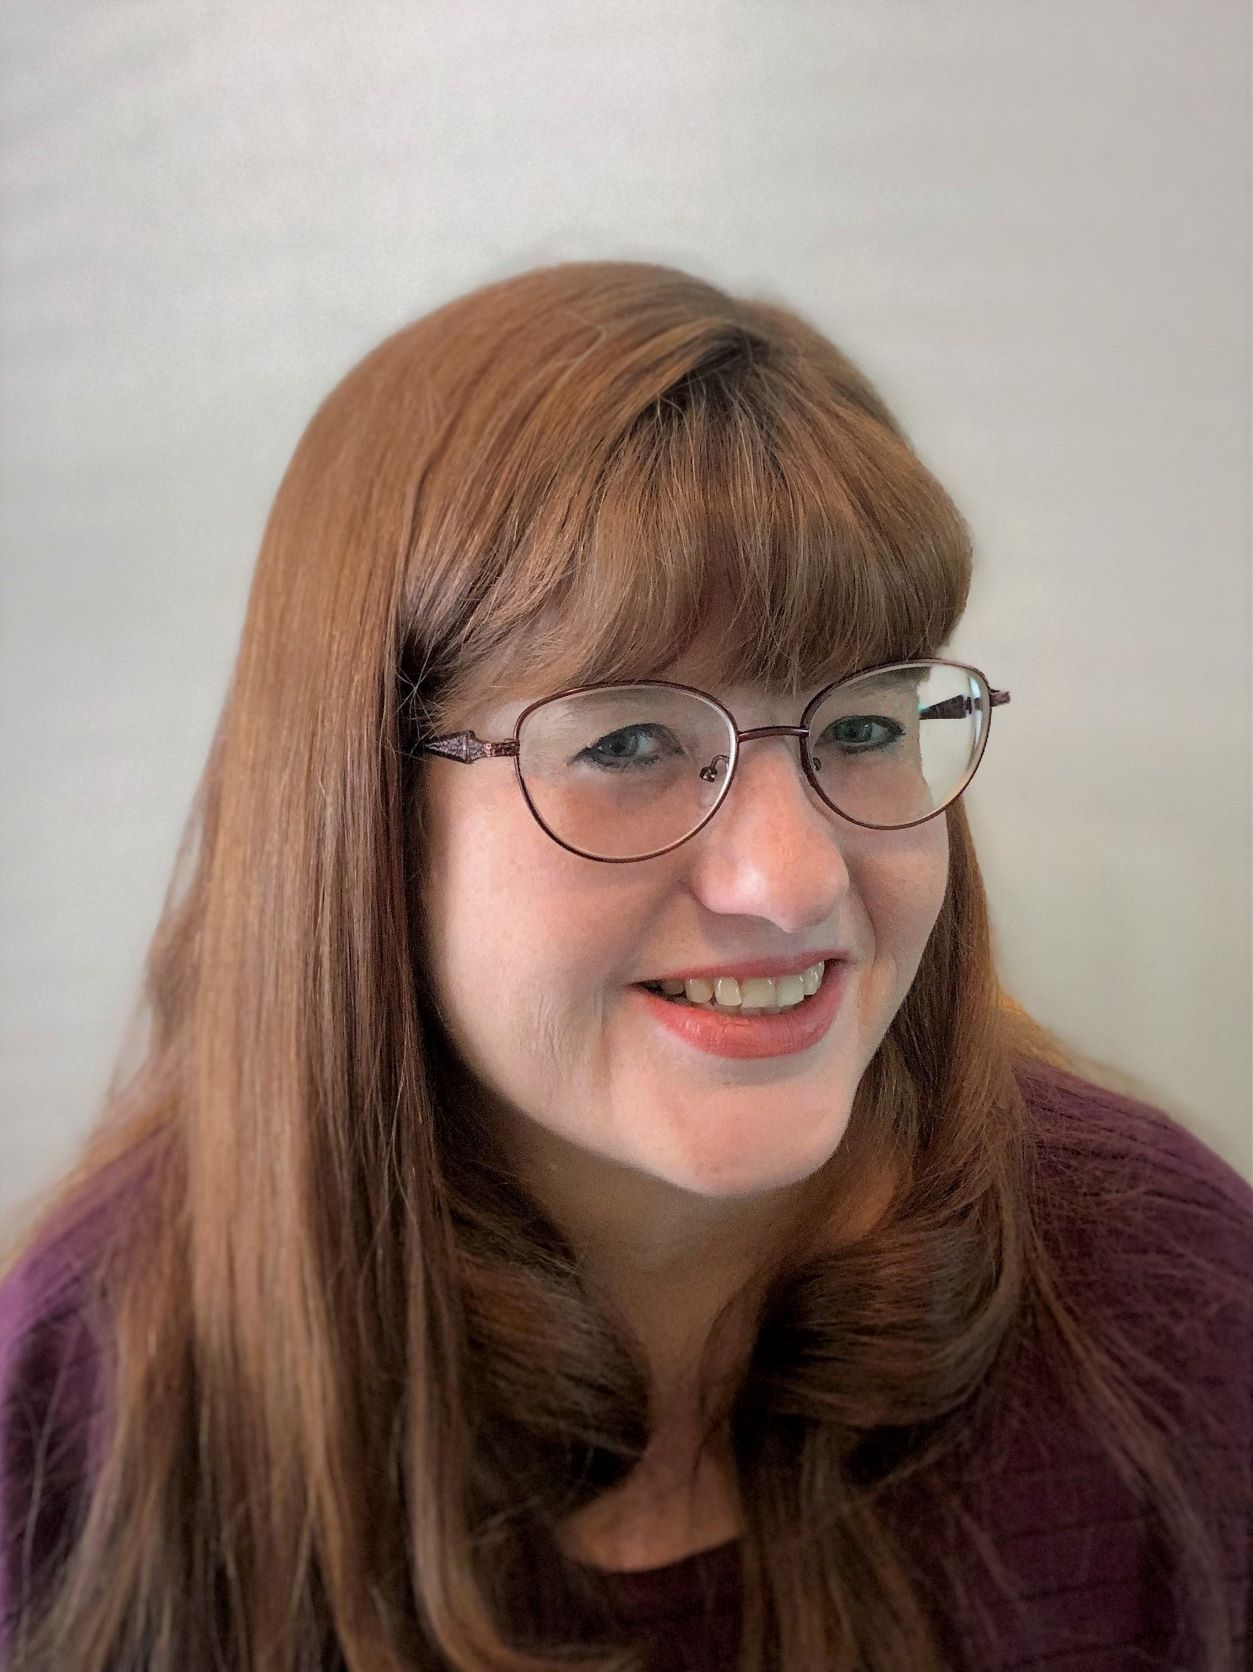
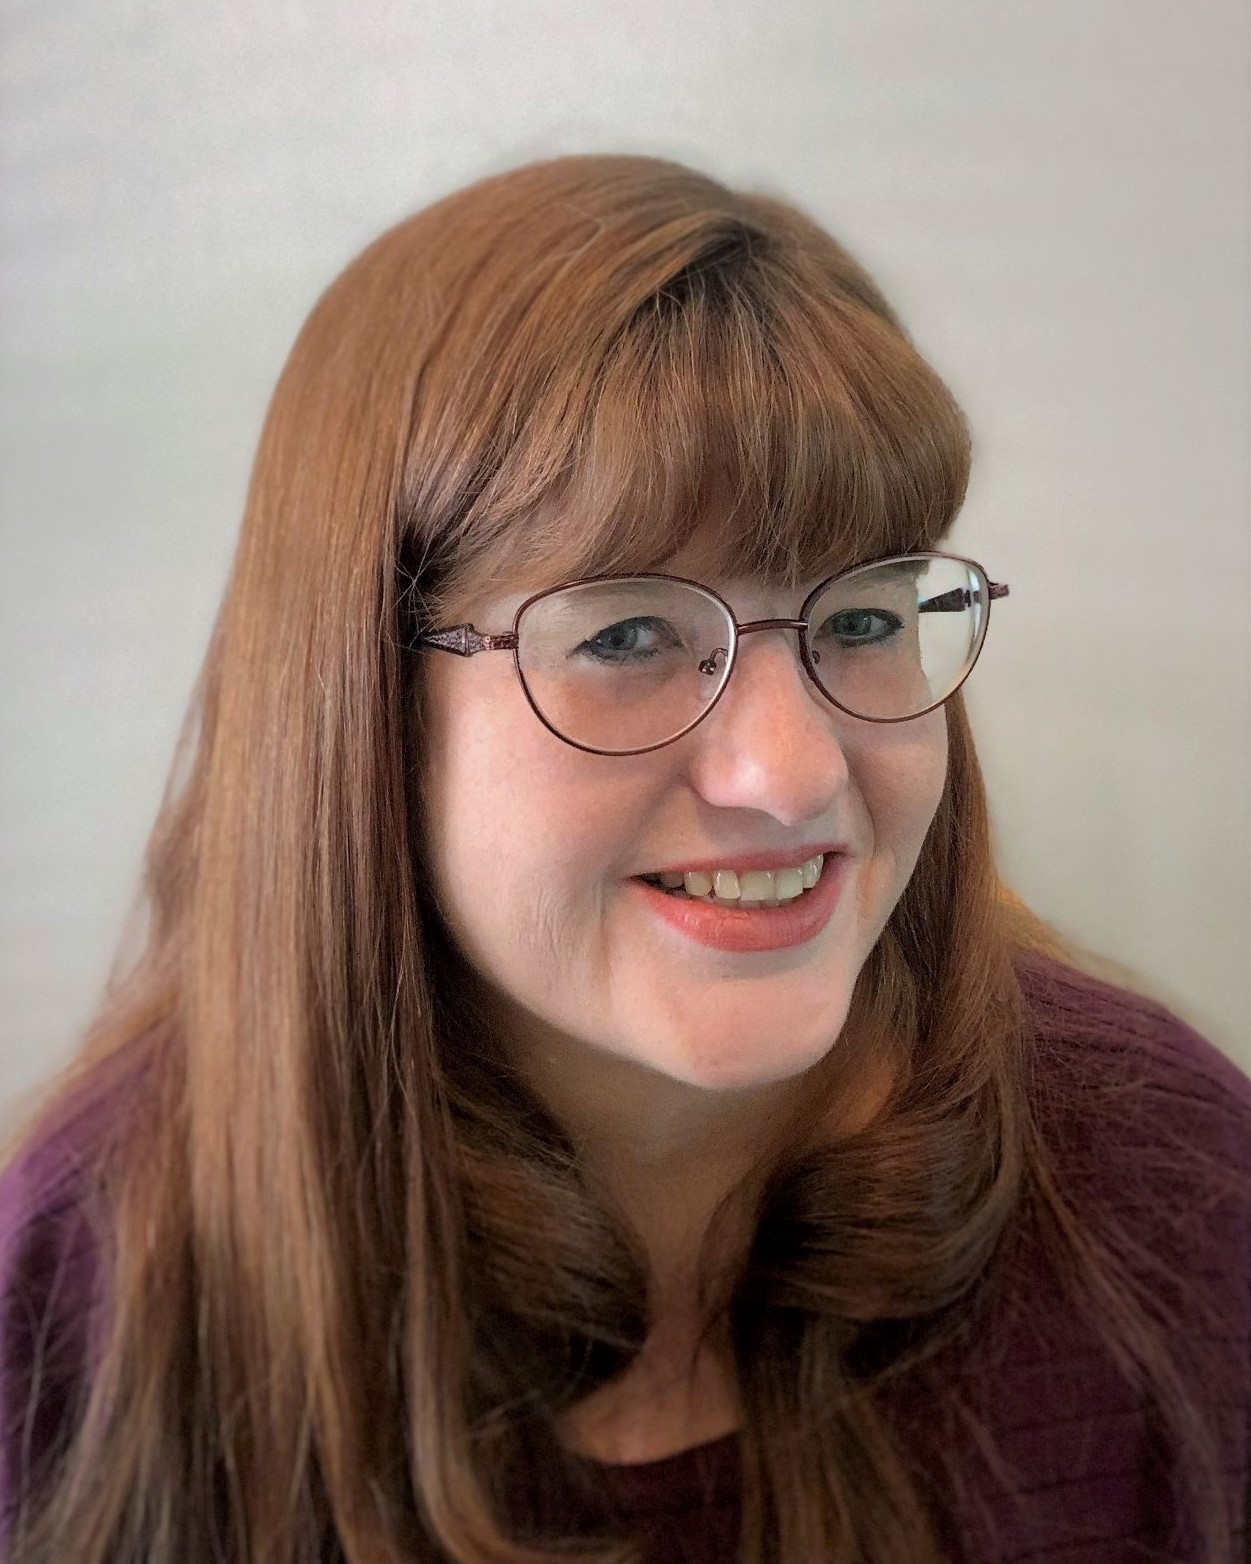
about me

diff --git a/styles/style.css b/styles/style.css
@@ -12,7 +12,7 @@ body {
    right: 0px;
    bottom: 0px;
    left: 0px;
-   opacity: 0.75;
+   opacity: 0.50;
  }
 
 header {
@@ -30,20 +30,37 @@ footer .row {
 h1 {
   font-weight: 700;
   margin: 0;
+  position: relative;
 }
 
 h2 {
   padding: 10px;
+  position: relative;
+}
+
+h4 {
+  padding-bottom: 10px;
+  font-weight: bold;
+  font-size: 1.5em;
+  position: relative;
+}
+
+h5 {
+  padding-bottom: 10px;
+  font-size: 1.2 em;
+  position: relative;
 }
 
 nav {
   display: flex;
   justify-content: flex-end;
+  position: relative;
 }
 
 a {
   padding: 0 20px;
   margin: 0;
+  position: relative;
 }
 
 .jumbotron {
@@ -54,6 +71,7 @@ a {
   color: #ffffff;
   height: 400px;
   position: relative;
+  margin: 0px;
 }
 
 .jumbotron h2 {
@@ -61,6 +79,7 @@ a {
   font-weight: 700;
   margin: 0;
   color: #fff;
+  position: relative;
 }
 
 .jumbotron h3 {
@@ -73,10 +92,12 @@ a {
 section .row img {
   margin: 0 0 30px;
   width: 100%;
+  position: relative;
 }
 
 .col-md-6 {
   margin: 0 0 30px;
+  position: relative;
 }
 
 .btn.btn-primary {
@@ -84,48 +105,58 @@ section .row img {
   background-color: gray;
   text-align: center;
   padding-bottom: 10px;
+  position: relative;
 }
 
 .btn.btn-primary:hover {
   color: #ffffff;
   background-color: blue;
+  position: relative;
 }
 
 .btn-secondary {
   background-color: #2a70e0;
   color: #ffffff;
   margin: 0 0 30px;
+  position: relative;
 }
 
 .portrait {
   width:  350px;
   height: 300px;
+  position: relative;
 }
 
 figure img {
   width: 100%;
   height: auto;
+  position:relative
 }
 
 figure {
   margin-bottom: 30px;
+  position: relative;
 }
 
 footer {
   font-size: 18px;
   padding: 20px 0;
+  position: relative;
 }
 
 footer .col-sm-8 {
   display: flex;
   justify-content: flex-end;
+  position: relative;
 }
 
 footer ul {
   list-style: none;
+  position: relative;
 }
 
 .copyright {
   padding-top: 15px;
   text-align: left;
+  position: relative;
 }

diff --git a/about.html b/about.html
@@ -27,11 +27,14 @@
      </div>
     </section>
 <section class="container">
-      <div class="row justify-content-center">
-        <div class="col-sm-6">
+      <div class="row justify-content-left">
+        <div class="col-sm-5">
           <img src="./images/TracyWhitefield-profile.jpg" />
-          <p>Welcome to my personal portfolio. I am a freelance web designer with a passion for learning. Ever since I was a little kid, designing and writing programs and making the text and images on the computer screen respond to my instructions has always fascinated me. From my first pc to the Internet and the World Wide Web, computer programming is one of my earliest loves.</p>
-          <p>I also enjoy reading, traveling, crocheting and spending time with my family. One of my bucket list goals is to travel to all the places around the world I've read about and see them for myself.</p>
+        </div>
+        <div class="col-sm-7">
+          <h4>Welcome to my personal portfolio.</h4>
+          <h5>I am a freelance web designer with a passion for learning. Ever since I was a little kid, designing and writing programs and making the text and images on the computer screen respond to my instructions has always fascinated me. From my first pc to the Internet and the World Wide Web, computer programming is one of my earliest loves.</h5>
+          <h5>I also enjoy reading, traveling, crocheting and spending time with my family. One of my bucket list goals is to travel to all the places around the world I've read about and see them for myself.</h5>
         </div> 
       </div>
     </section>
